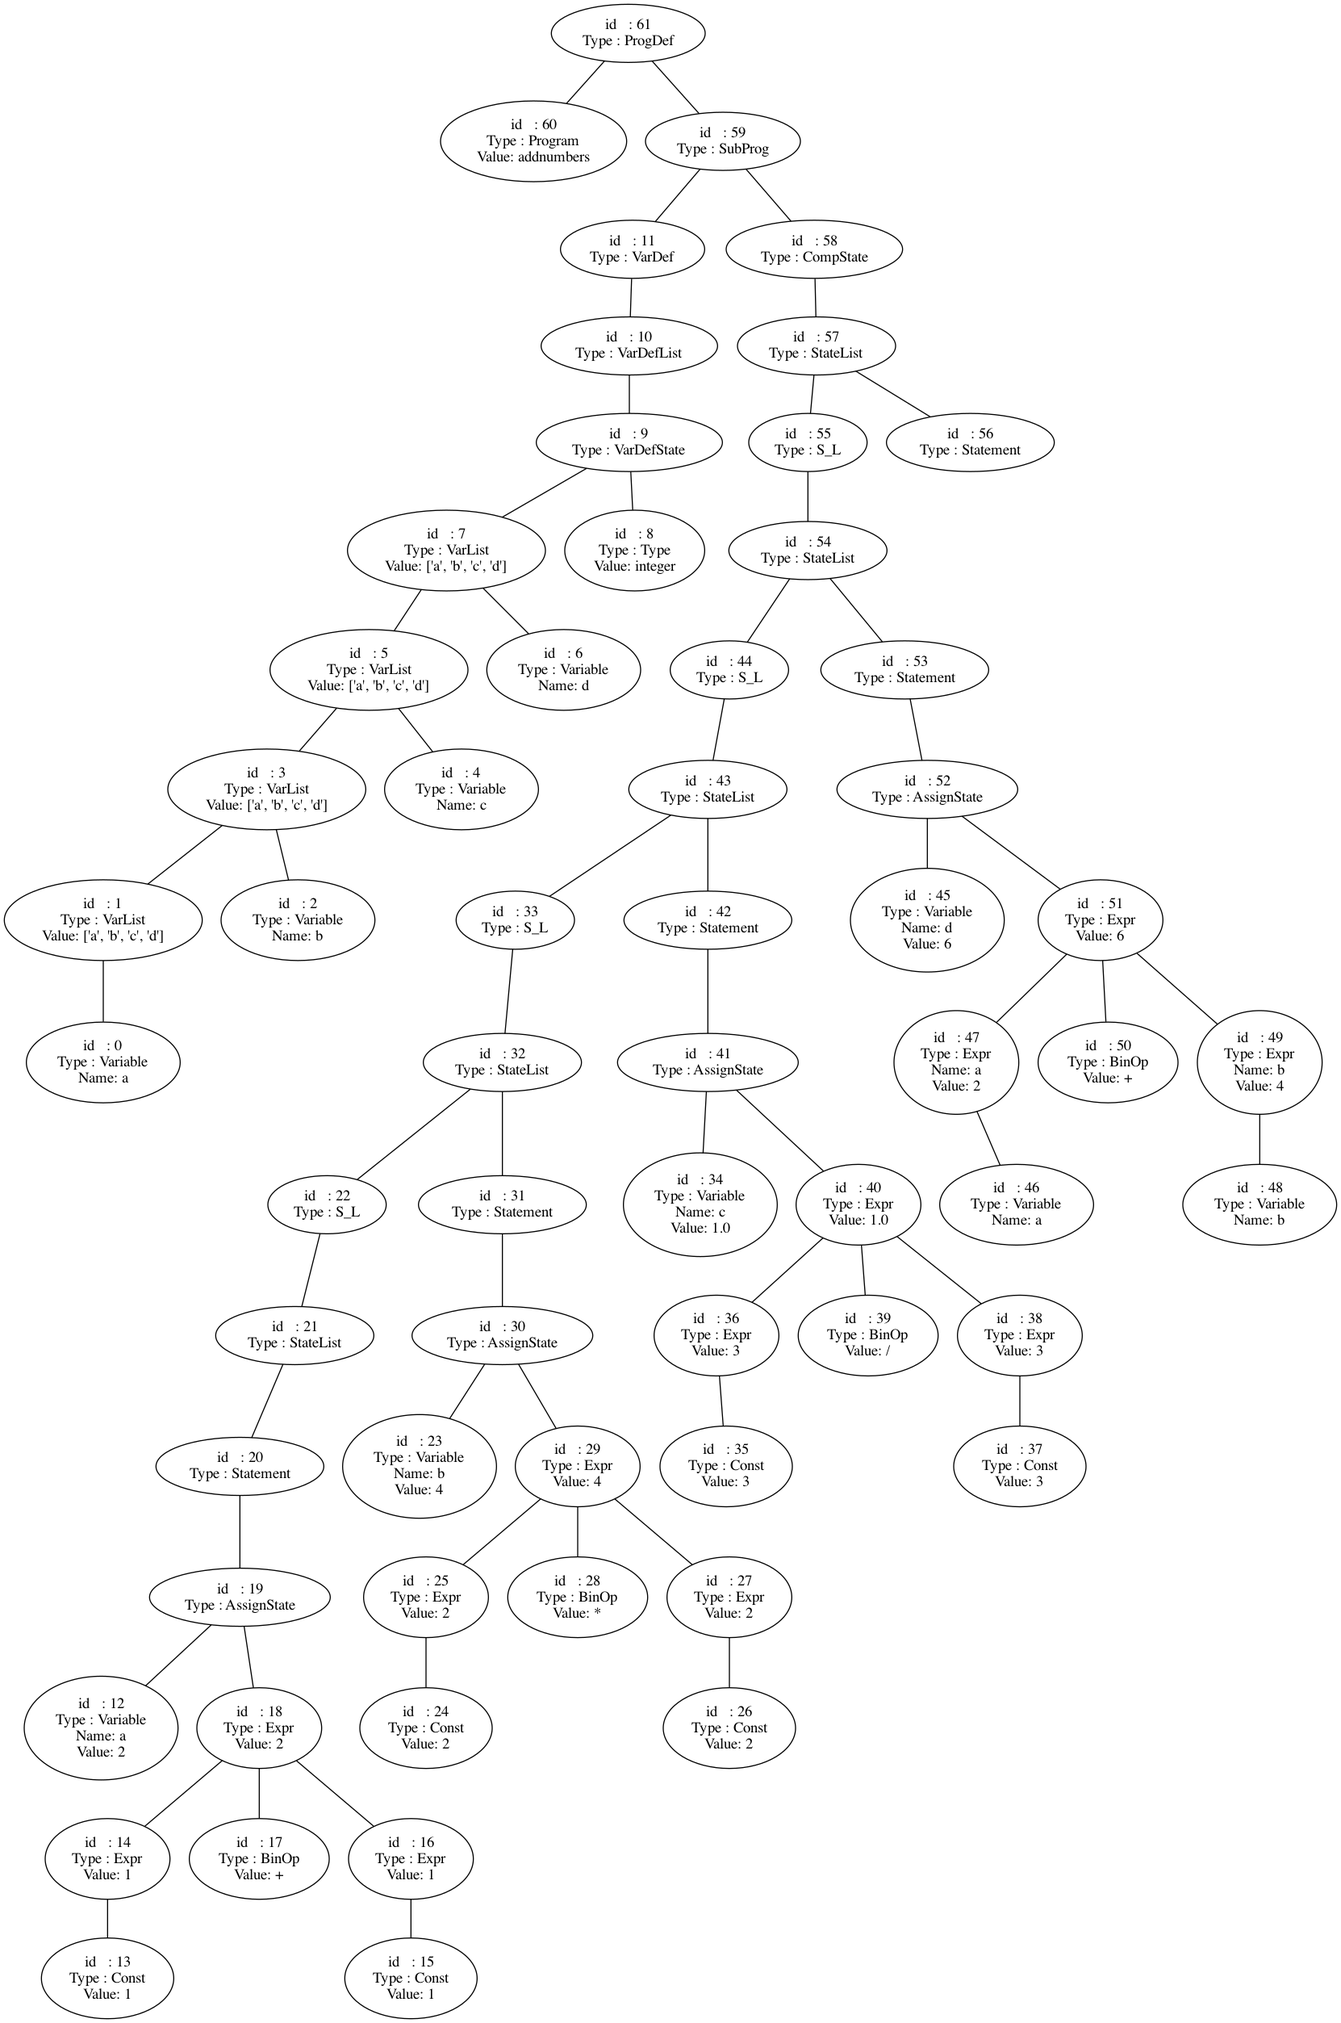
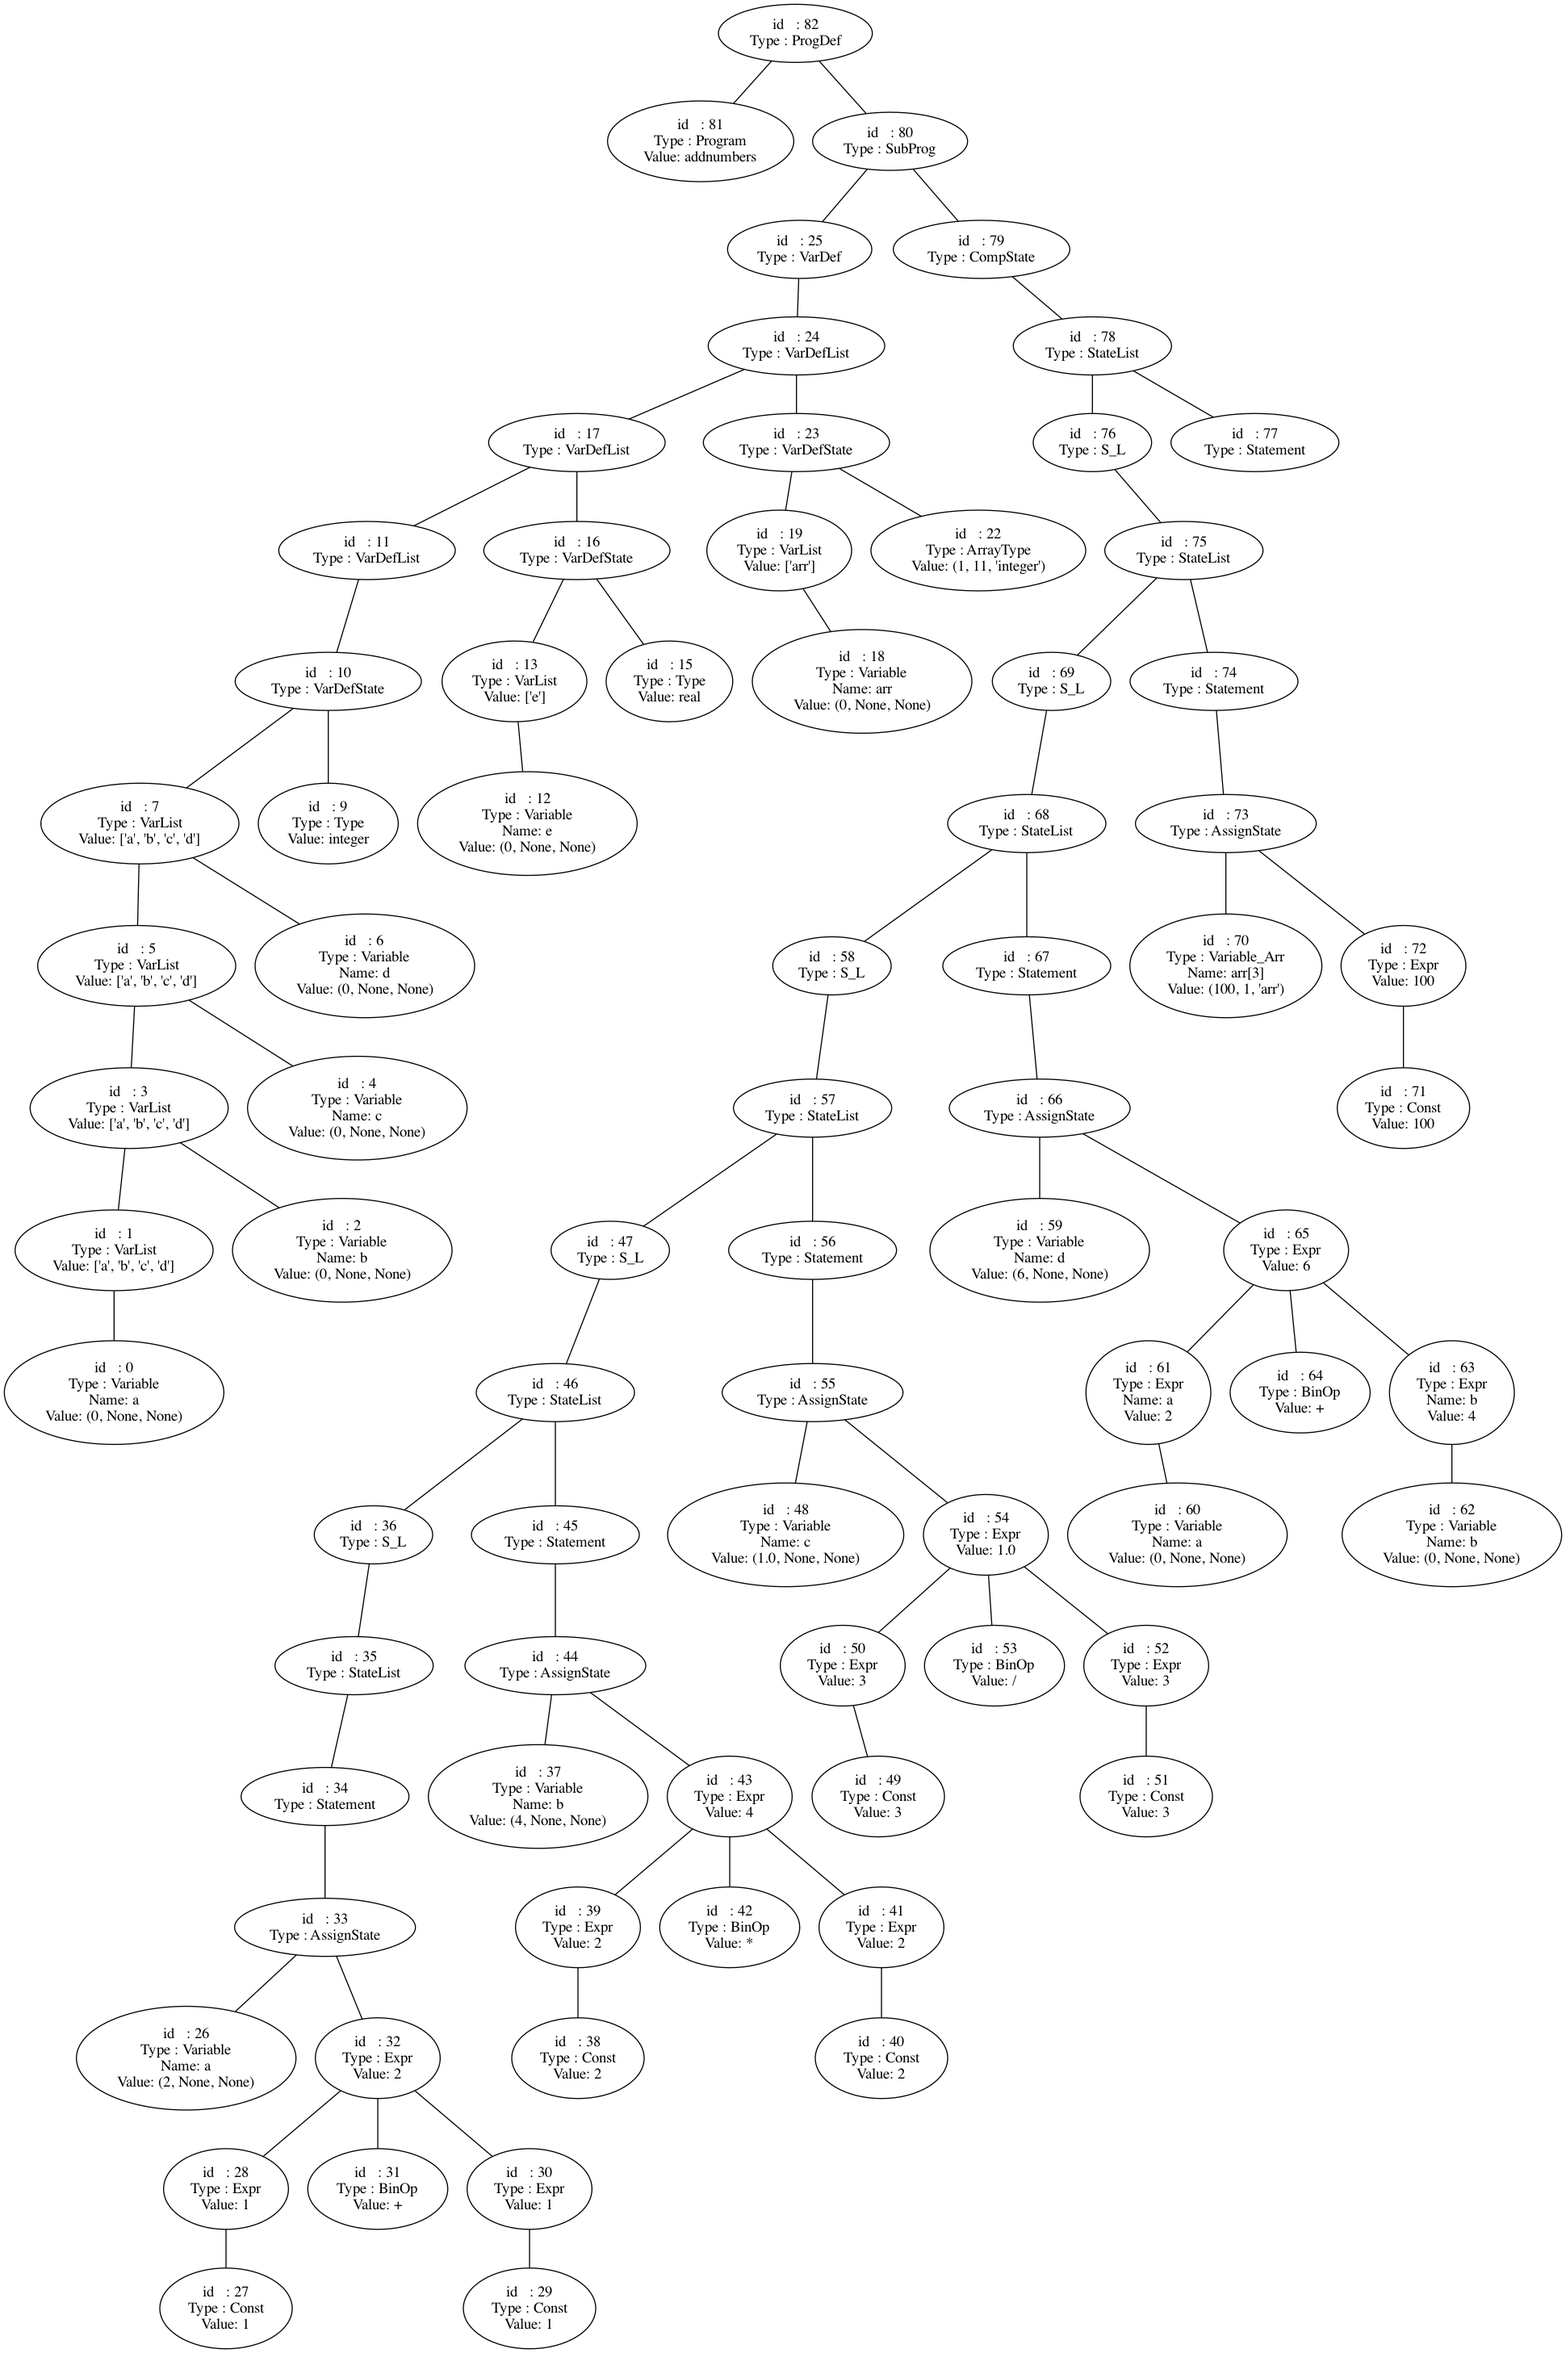
feat(syntax): Added syntax & calculation for array
- Array def
- Array assign(update)
- Array search
- DONE(Steve X): 对数组的支持
- 终于全写完了啊啊啊啊啊啊啊啊啊啊啊啊啊啊啊啊啊啊! 完结撒花!!🎉🎉🎉
- 还有一些不重要的细节, 不要在意这些细节, 有时间的话再说吧, 先复习其他考试去了...

* BREAKING CHANGE

diff --git a/src/syntax.py b/src/syntax.py
@@ -118,20 +118,52 @@ def p_VarDefState(p):
             print(f'Line {lexer.lineno}: Redefined var "{var.name}"')
             sys.exit(-1)
         else:
-            variable_list.add({
-                var.name: {
-                    'value': var.value,
-                    'var_type': p[3].value,
-                }
-            })
+            if p[3].node_type == 'ArrayType':
+                arr_begin = p[3].value[0]
+                arr_end = p[3].value[1]
+
+                variable_list.add({
+                    var.name: {
+                        'value': p[3].value,
+                        'var_type': 'Array',
+                        'var_items': [0 for i in range(arr_begin, arr_end)],
+                    }
+                })
+            else:
+                variable_list.add({
+                    var.name: {
+                        'value': var.value,
+                        'var_type': p[3].value,
+                    }
+                })
 
 
 def p_Type(p):
-    '''Type : Integer
-            | Real
+    '''Type : Type_Single
+            | ArrayType
+    '''
+
+    p[0] = ast.Node(node_type=p[1].node_type, value=p[1].value)
+
+
+def p_Type_Single(p):
+    '''Type_Single  : Integer
+                    | Real
     '''
 
     p[0] = ast.Node(node_type='Type', value=p[1])
+
+
+# XXX(Steve X): Pascal语法的数组下标和主流语言似乎不太一样, 如果需要的话再改吧
+def p_ArrayType(p):
+    '''ArrayType : ARRAY '[' IntNo '.' '.' IntNo ']' OF Type_Single'''
+    #  ^           ^      ^  ^      ^   ^  ^      ^  ^   ^
+    #  p[0]       p[1]  p[2]p[3]  p[4]p[5] p[6] p[7]p[8] p[9]
+
+    arr_begin = p[3]
+    arr_end = p[6] + 1
+
+    p[0] = ast.Node(node_type='ArrayType', value=(arr_begin, arr_end, p[9].value), children=[p[3], p[6], p[9]])
 
 
 # XXX(Steve X): 输出 AST 时, VarList 每一步元素都不变
@@ -141,8 +173,16 @@ def p_VarList(p):
     '''
 
     if len(p) == 2:
+        if p[1].node_type == 'Variable_Arr':
+            print('Invalid Syntax: Can not declare an array element')
+            sys.exit(-1)
+
         p[0] = ast.Node(node_type='VarList', value=[p[1]], children=[p[1]])
     elif len(p) == 4:
+        if p[3].node_type == 'Variable_Arr':
+            print('Invalid Syntax: Can not declare an array element')
+            sys.exit(-1)
+
         p[1].value.append(p[3])
         p[0] = ast.Node(node_type='VarList', value=p[1].value, children=[p[1], p[3]])
 
@@ -189,10 +229,12 @@ def p_CompState(p):
 def p_AssignState(p):
     '''AssignState : Variable AssignOper Expr'''
 
-    if variable_list.exist(p[1].name):
+    var_name = p[1].value[2] if p[1].node_type == 'Variable_Arr' else p[1].name
+
+    if variable_list.exist(var_name):
         p[0] = ast.Node(node_type='AssignState', children=[p[1], p[3]])
-        p[1].value = p[3].value
-        variable_list.update(var_name=p[1].name, value=p[1].value)
+        p[1].value = (p[3].value, p[1].value[1], p[1].value[2])
+        variable_list.update(var_name=var_name, arr_idx=p[1].value[1], value=p[1].value[0])
     else:
         print(f'Line {lexer.lineno}: Undefined var "{p[1].name}"')
         sys.exit(-1)
@@ -240,10 +282,13 @@ def p_Expr(p):
 
     if len(p) == 2:
         p[0] = ast.Node(node_type='Expr', value=p[1].value, children=[p[1]])
+        p[0].name = p[1].name
+
         if p[1].node_type == 'Variable':
-            p[0].name = p[1].name
             p[0].value = variable_list.search(var_name=p[0].name)['value']
-            print(p[0].name, '***', p[0].value)
+        elif p[1].node_type == 'Variable_Arr':
+            p[0].value = variable_list.search(var_name=p[1].name, arr_idx=p[1].value[1])
+
     elif len(p) == 4:
         if p[1] == '(':
             p[0] = ast.Node(node_type='Expr', value=p[2].value, children=[p[2]])
@@ -324,9 +369,18 @@ def p_BoolExpr_AndOr(p):
 
 
 def p_Variable(p):
-    '''Variable : Iden'''
+    '''Variable : Iden
+                | Iden '[' IntNo ']'
+    '''
 
-    p[0] = ast.Node(node_type='Variable', value=0, name=p[1])
+    # Variable      - value = (var_value, None, None)
+    # Variable_Arr  - value = (var_value, arr_idx, arr_name)
+
+    if len(p) == 2:
+        p[0] = ast.Node(node_type='Variable', value=(0, None, None), name=p[1])
+    elif len(p) == 5:
+        arr_val = variable_list.search(var_name=p[1], arr_idx=p[3])
+        p[0] = ast.Node(node_type='Variable_Arr', value=(arr_val, p[3], p[1]), name=f'{p[1]}[{3}]')
 
 
 def p_Const(p):

diff --git a/src/codegen/var_table.py b/src/codegen/var_table.py
@@ -50,17 +50,28 @@ class VarTable(Table):
         Add single item to VarTab
 
         Parameters::
+
+        - for single var
             item: dict - a VarTab item {
                 '<var name(e.g. var_1)>' : {
                     'value' : 1,
                     'var_type' : 'integer',
                 }
             }
+
+        - for array
+            item: dict - a VarTab item {
+                '<array name(e.g. arr_1)>' : {
+                    'value': (arr_begin, arr_end, arr_type),
+                    'var_type': 'Array',    # DO NOT EDIT THIS VALUE
+                    'var_items': [],        # DO NOT EDIT THIS VALUE
+                }
+            }
         '''
 
         self.items.update(item)
 
-    def update(self, var_name: str = '', value=None):
+    def update(self, var_name: str = '', arr_idx: int = None, value=None):
         '''
         Update value for vars
 
@@ -69,13 +80,27 @@ class VarTable(Table):
             value: - value to be set
         '''
 
-        if self.exist(var_name):
-            self.items[var_name]['value'] = value
+        if arr_idx is None:
+            if self.exist(var_name):
+                self.items[var_name]['value'] = value
+            else:
+                print(f'Undefined var "{var_name}"')
+                sys.exit(-1)
         else:
-            print(f'Undefined var "{var_name}"')
-            sys.exit(-1)
+            if self.exist(var_name):
+                arr_begin = self.items[var_name]['value'][0]
+                arr_end = self.items[var_name]['value'][1]
 
-    def search(self, var_name: str = ''):
+                if arr_idx in range(arr_begin, arr_end):
+                    self.items[var_name]['var_items'][arr_idx] = value
+                else:
+                    print(f'Array index({arr_idx}) out of range({arr_begin},{arr_end})')
+                    sys.exit(-1)
+            else:
+                print(f'Undefined array "{var_name}"')
+                sys.exit(-1)
+
+    def search(self, var_name: str = '', arr_idx: int = None):
         '''
         Search value for vars
 
@@ -85,7 +110,17 @@ class VarTable(Table):
             var1
         '''
 
-        res = self.items.get(var_name)
+        if arr_idx is None:
+            res = self.items.get(var_name)
+        else:
+            arr_begin = self.items[var_name]['value'][0]
+            arr_end = self.items[var_name]['value'][1]
+
+            if arr_idx in range(arr_begin, arr_end):
+                res = self.items.get(var_name)['var_items'][arr_idx]
+            else:
+                print(f'Array index({arr_idx}) out of range({arr_begin},{arr_end})')
+                sys.exit(-1)
 
         return res
 

diff --git a/src/lexical.py b/src/lexical.py
@@ -82,6 +82,9 @@ reserved = {
     # 左边到底是 real 还是 reald, 江信江疑🤔
     'real': 'Real',
     # 'Reald': 'Real',
+
+    'array': 'ARRAY',
+    'of': 'OF',
 }
 
 
@@ -97,7 +100,7 @@ tokens = [
 ] + list(reserved.values())
 
 # Literal Characters
-literals = "+-*/()<>=,;:."
+literals = "+-*/()<>[]=,;:."
 
 # Regular expression rules for simple tokens
 t_GE = r'>='

diff --git a/TODO_LIST.py b/TODO_LIST.py
@@ -26,4 +26,4 @@
 # DONE(Steve X): 输出程序的四元式
 # DONE(Steve X): 输出程序中各种符号定义(符号表形式)
 # DONE(Steve X): 简单的错误诊断(所在行, 变量不存在, 重复定义等)
-# TODO(Steve X): 对数组的支持
+# DONE(Steve X): 对数组的支持

diff --git a/README.md b/README.md
@@ -44,7 +44,7 @@ A minipascal parser implemented with Python-PLY
 - [x] TODO(Steve X): 输出程序的四元式
 - [x] TODO(Steve X): 输出程序中各种符号定义(符号表形式)
 - [x] TODO(Steve X): 简单的错误诊断(所在行, 变量不存在, 重复定义等)
-- [ ] TODO(Steve X): 对数组的支持
+- [x] TODO(Steve X): 对数组的支持
 
 
 ---  
